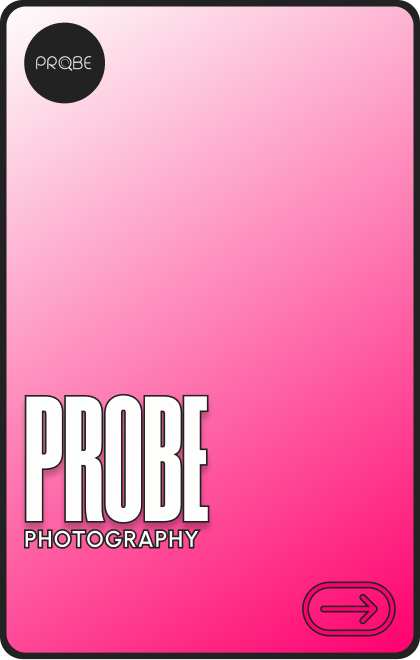
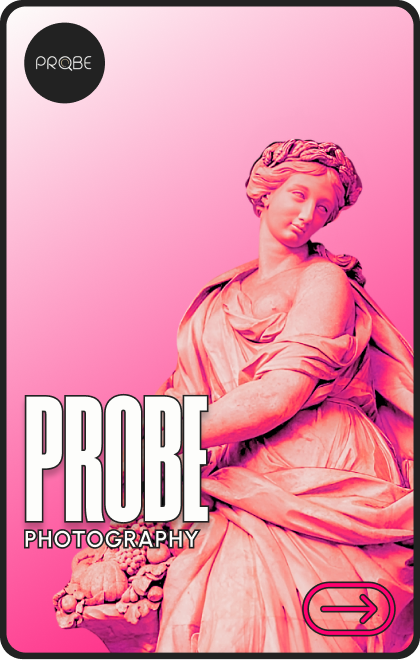
Updated event cards

diff --git a/src/Components/HomePage/EventSection/eventssection.css b/src/Components/HomePage/EventSection/eventssection.css
@@ -224,7 +224,7 @@
 }
 
 .events-section .card-1:hover .cf1 {
-    background-image: url("../../../assets/HomePage/Events/cf1.png");
+    background-image: url("../../../assets/HomePage/Events/ch1.png");
 }
 
 .events-section .cf1:hover,
@@ -237,7 +237,7 @@
 }
 
 .events-section .card-2:hover .cf2 {
-    background-image: url("../../../assets/HomePage/Events/cf2.png");
+    background-image: url("../../../assets/HomePage/Events/ch2.png");
 }
 
 .events-section .cf2:hover,
@@ -263,7 +263,7 @@
 }
 
 .events-section .card-4:hover .cf4 {
-    background-image: url("../../../assets/HomePage/Events/cf4.png");
+    background-image: url("../../../assets/HomePage/Events/ch4.png");
 }
 
 .events-section .cf4:hover,
@@ -276,7 +276,7 @@
 }
 
 .events-section .card-5:hover .cf5 {
-    background-image: url("../../../assets/HomePage/Events/cf5.png");
+    background-image: url("../../../assets/HomePage/Events/ch5.png");
 }
 
 .events-section .cf5:hover,
@@ -289,7 +289,7 @@
 }
 
 .events-section .card-6:hover .cf6 {
-    background-image: url("../../../assets/HomePage/Events/cf6.png");
+    background-image: url("../../../assets/HomePage/Events/ch6.png");
 }
 
 .events-section .cf6:hover,
